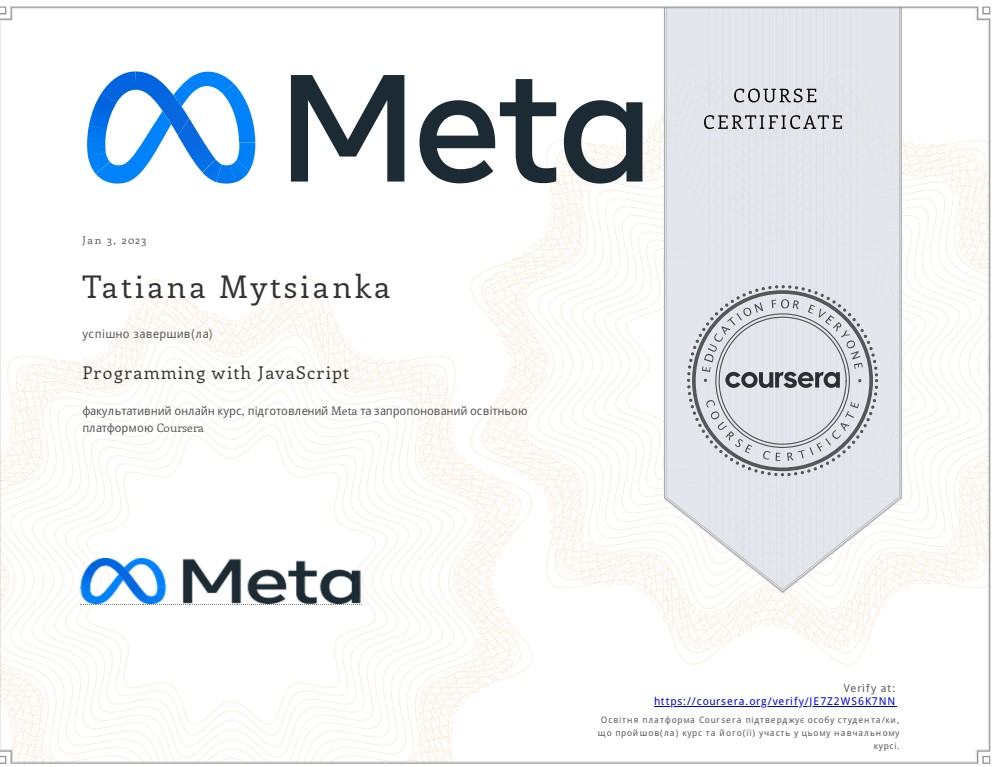
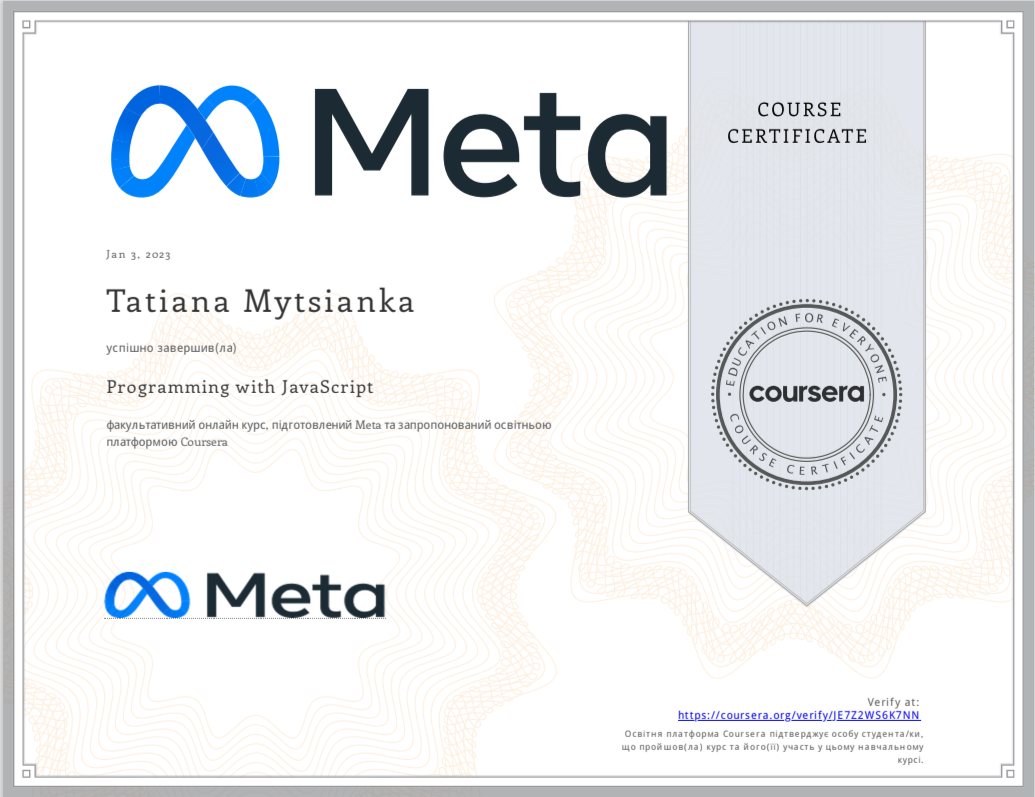
update

diff --git a/cetrtificate.html b/cetrtificate.html
@@ -37,24 +37,26 @@
 <div class="container">
   <div class="row">
     <div class="col-md-6">
-      <img src="/img/certificatBasic.png" alt="Cetrtificate SheCodes Basics" class="img-fluid rounded shadow-lg mt-3" title="Cetrtificate SheCodes Basics">
+      <img src="/img/certificatBasic.png" width="700" alt="Cetrtificate SheCodes Basics" class="img-fluid rounded shadow-lg mt-3" title="Cetrtificate SheCodes Basics">
     </div>
     <div class="col-md-6">
-      <img src="/img/certificatePlus.png" alt="Cetrtificate SheCodes Plus" class="img-fluid rounded shadow-lg mt-3" title="Cetrtificate SheCodes Plus">
+      <img src="/img/certificatePlus.png" width="700"  alt="Cetrtificate SheCodes Plus" class="img-fluid rounded shadow-lg mt-3" title="Cetrtificate SheCodes Plus">
     </div>
   </div>
   <div class="row">
     <div class="col-md-6">
-      <img src="/img/certificateResponsive.png" alt="Cetrtificate SheCodes Responsive" class="img-fluid rounded shadow-lg mt-3" title="Cetrtificate SheCodes Responsive">
+      <img src="/img/certificateResponsive.png" width="700"  alt="Cetrtificate SheCodes Responsive" class="img-fluid rounded shadow-lg mt-3" title="Cetrtificate SheCodes Responsive">
     </div>
     <div class="col-md-6">
-      <img src="/img/certificateReact.png" alt="Cetrtificate SheCodes React" class="img-fluid rounded shadow-lg mt-3" title="Cetrtificate SheCodes React">
+      <img src="/img/certificateReact.png" width="700"  alt="Cetrtificate SheCodes React" class="img-fluid rounded shadow-lg mt-3" title="Cetrtificate SheCodes React">
+    </div>
+    </div>
+    <div class="row">
+    <div class="col-md-6">
+      <img src="/img/CertificatePrometeus.png" width="700"  alt="Cetrtificate Prometeus" class="img-fluid rounded shadow-lg mt-3" title="Cetrtificate Prometeus">
     </div>
     <div class="col-md-6">
-      <img src="/img/CertificatePrometeus.png" alt="Cetrtificate Prometeus" class="img-fluid rounded shadow-lg mt-3" title="Cetrtificate Prometeus">
-    </div>
-    <div class="col-md-6">
-      <img src="/img/CertificateCursersJS.png" alt="Cetrtificate Cursera JS" class="img-fluid rounded shadow-lg mt-3" title="Cetrtificate Cursera">
+      <img src="/img/CertificateCursersJS.png" width="580"  alt="Cetrtificate Cursera JS" class="img-fluid rounded shadow-lg m-3 " title="Cetrtificate Cursera">
     </div>
     
   </div>
